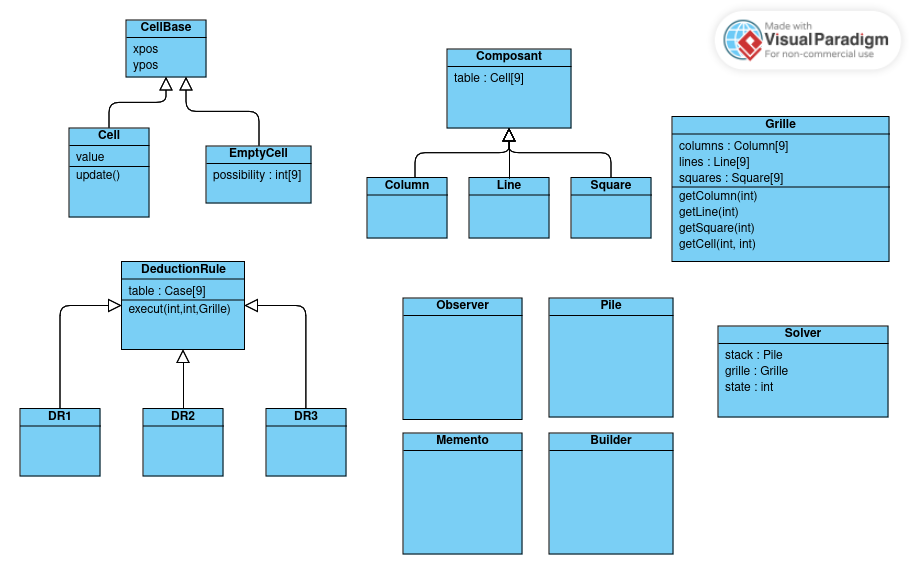
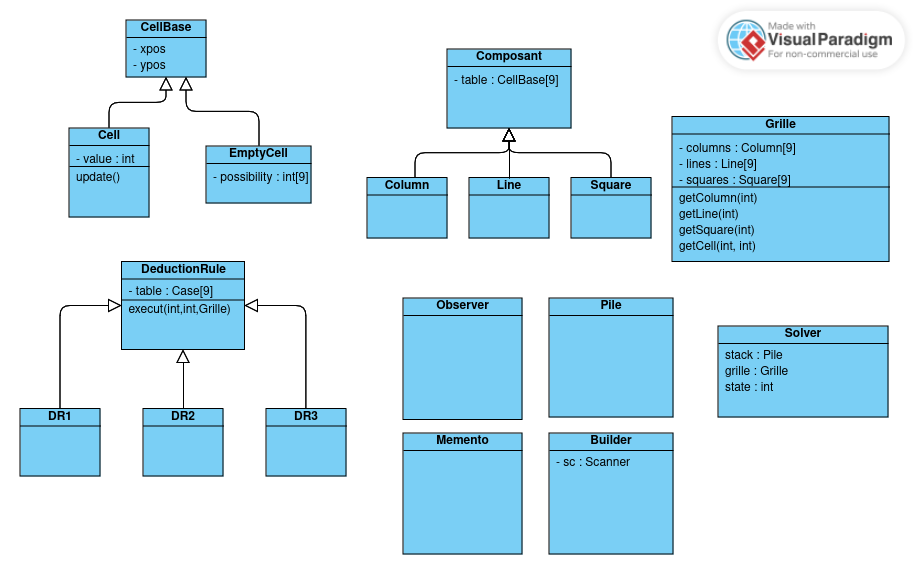
Corrections mineures et MàJ UML après implémentation Builder (toujours incomplet)

diff --git a/src/Builder.java b/src/Builder.java
@@ -9,10 +9,10 @@ public class Builder{
         this.input = input;
     }
 
-    public Grid build(){ //Fonction principale qui crée la grille à partir du Scanner
+    public Grid build(){ //Fonction principale qui crée la grille complète à partir du Scanner
         Grid grid = new Grid();
 
-        //BUILDER Brute force :
+        //Build the lines of the grid first (Encapsuler dans une sous-fonction ?) :
         for (int i = 0; i < 9; i++) {
             if (input.hasNextLine()) {
                 String[] ligneCourante = input.nextLine().split(",");
@@ -76,6 +76,8 @@ public class Builder{
     }
 
     public void buildSquaresKnowingLines(Grid grid){
+        //Fonction qui construit toutes les carrés de la grille à partir des lignes
+        // Part d'en haut à gauche et va vers en bas à droite (1 = en haut à gauche, 2 = en haut au milieu etc...)
         for (int i=0; i<9; i++){
             Square currentSquare = new Square();
             int resteI = i/3;
